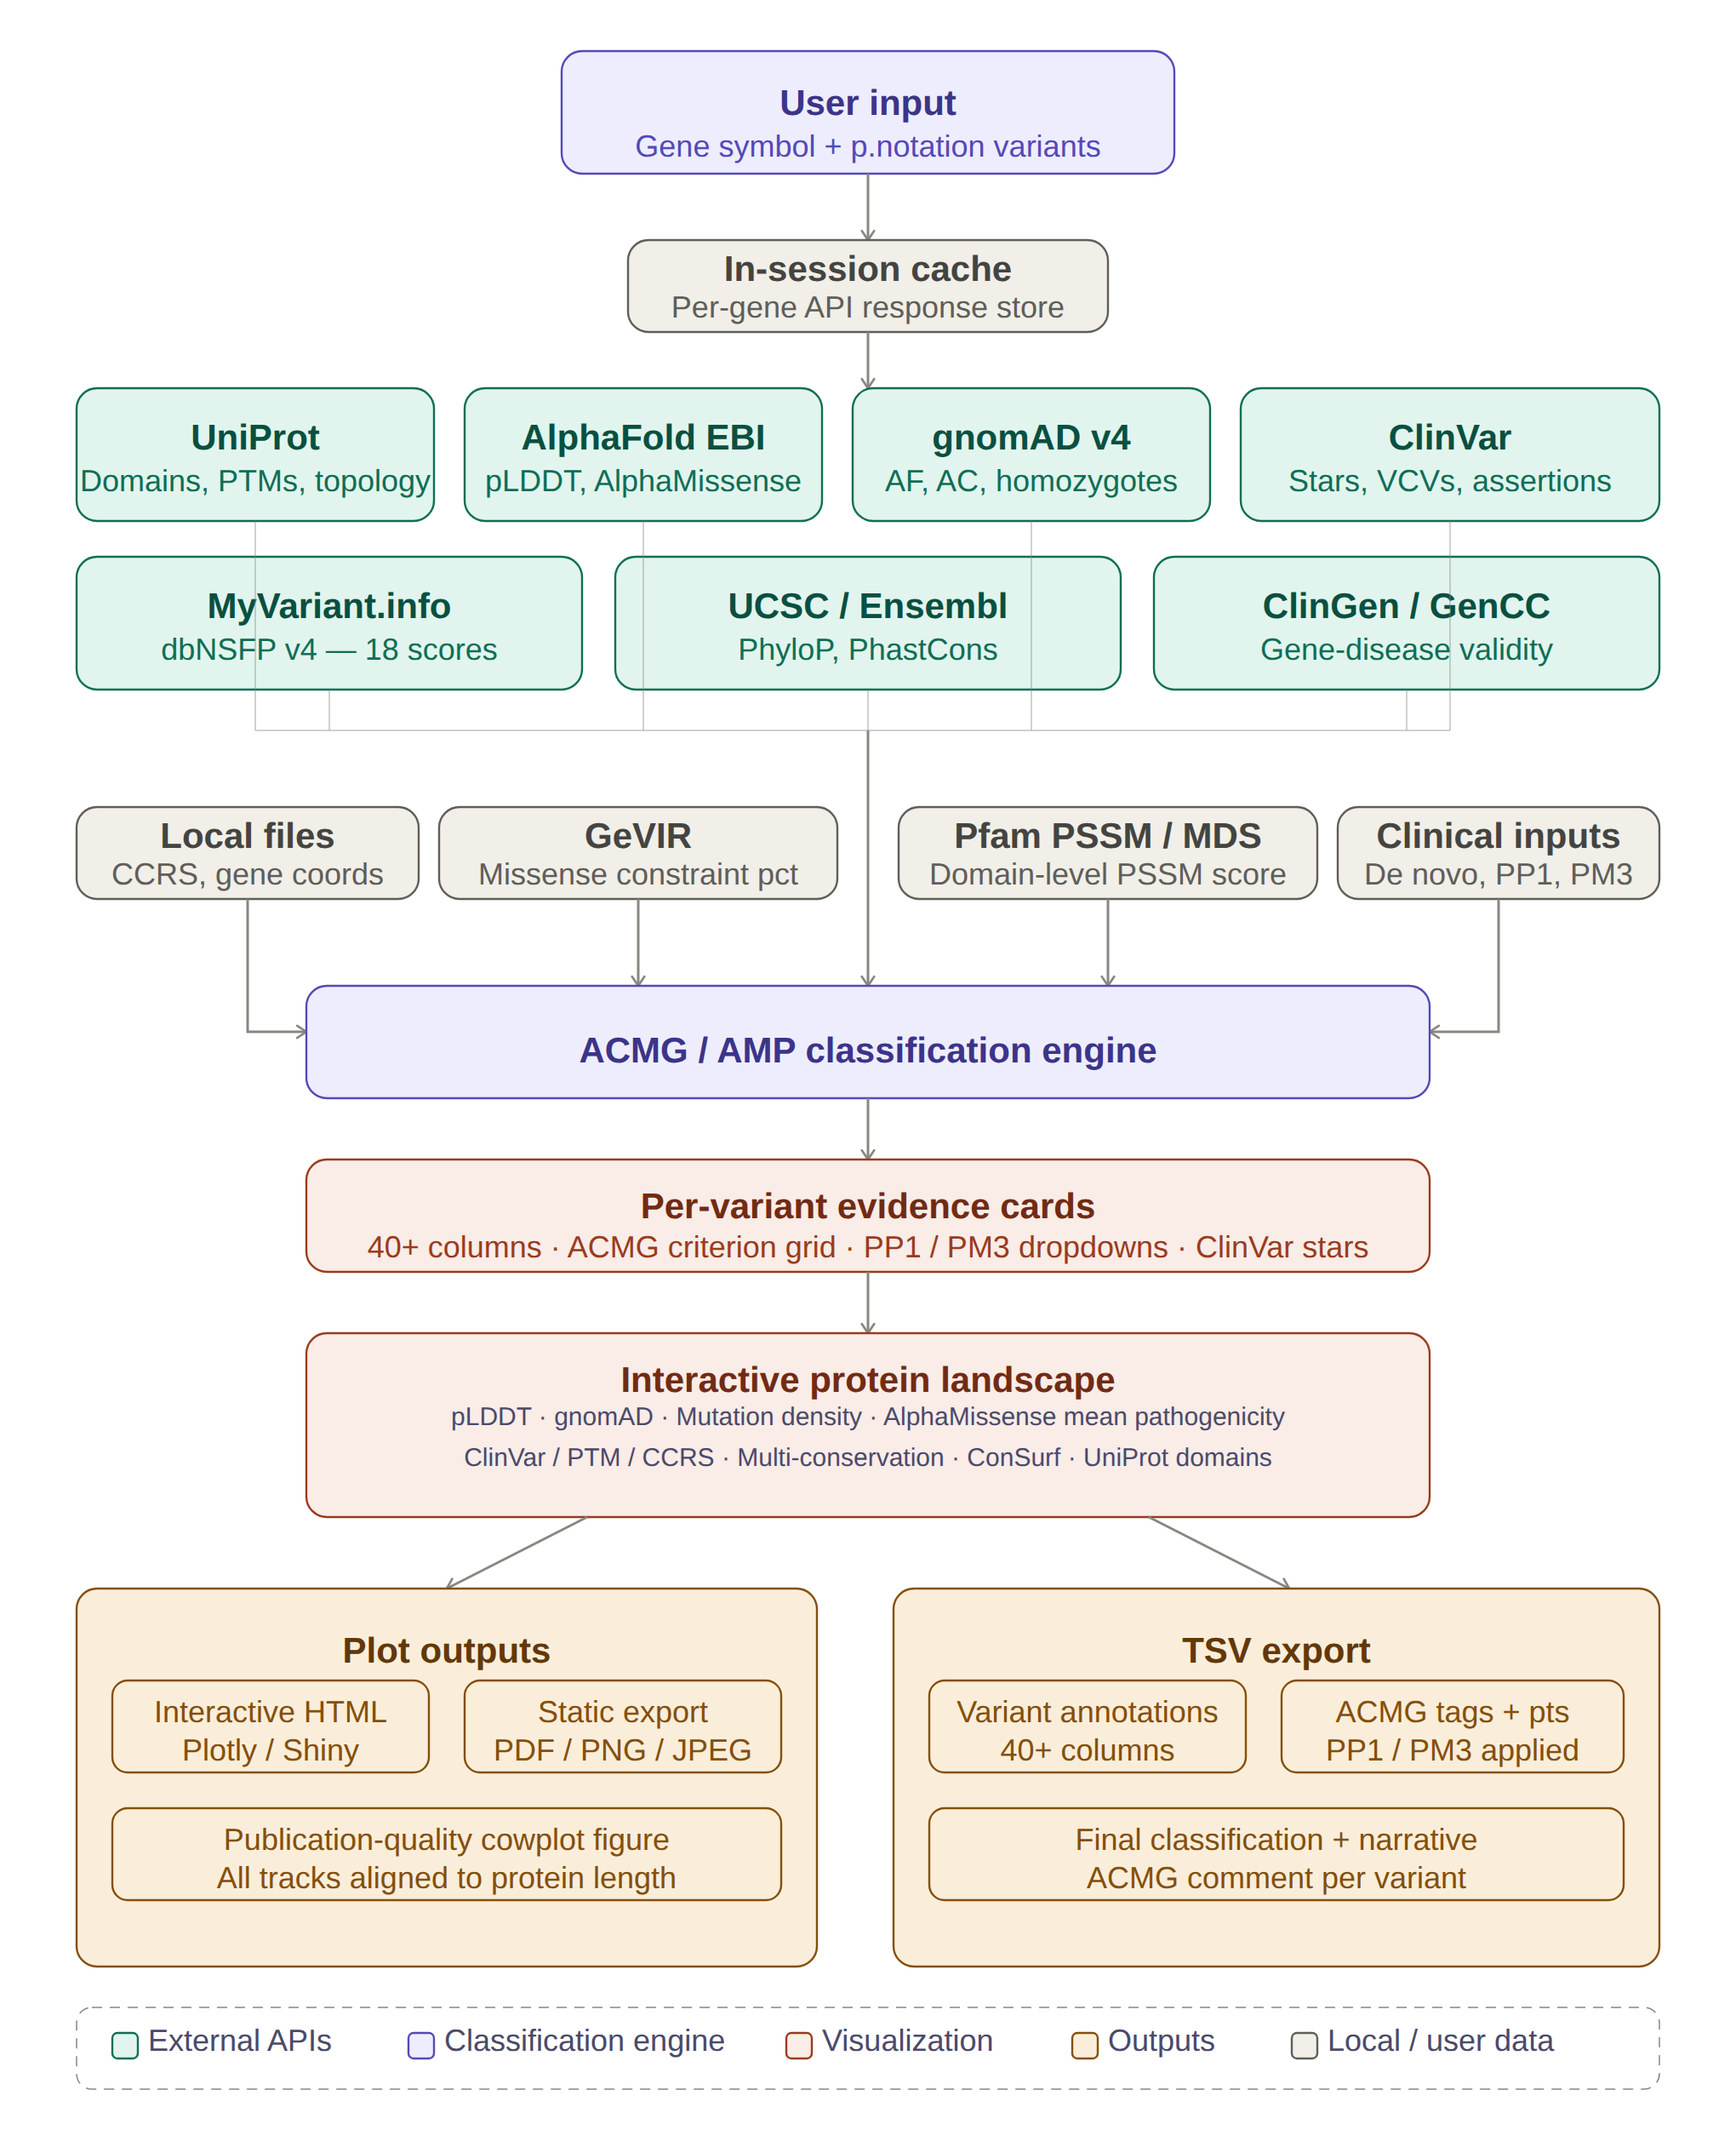
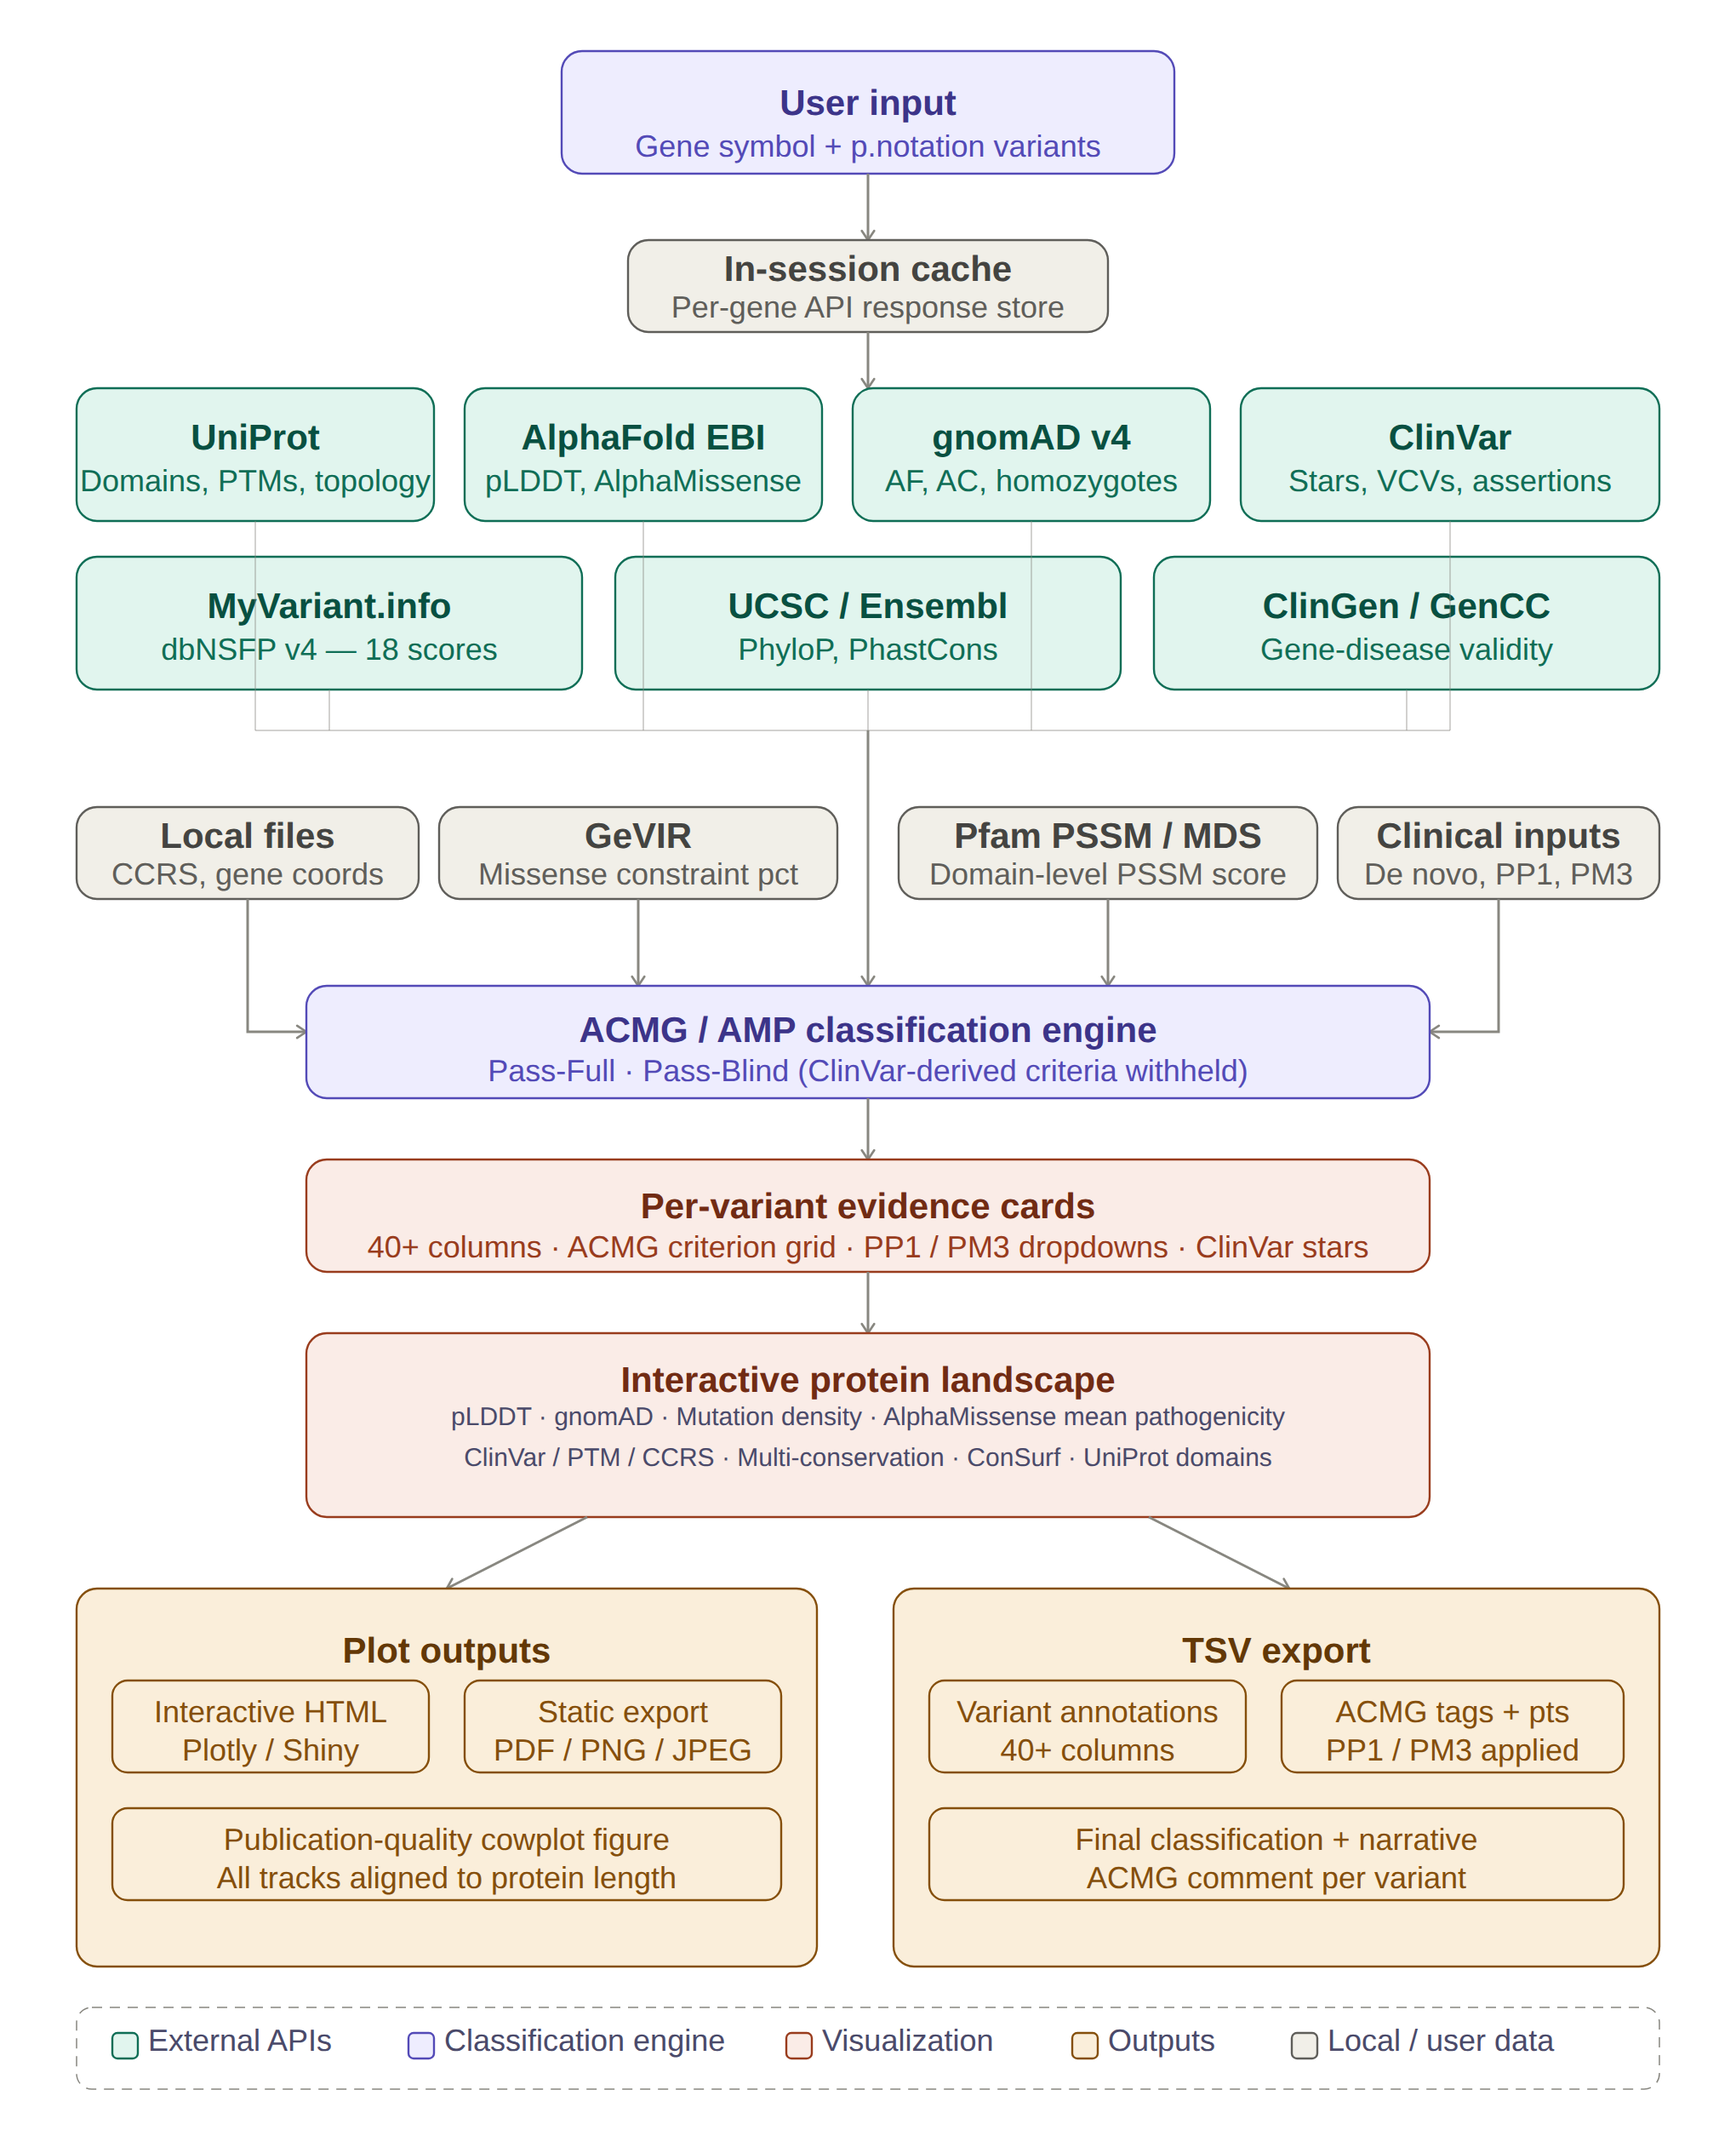
docs(readme): describe the dual-pass call and show it in the workflow figure
The README never mentioned Pass-Full and Pass-Blind. Add a feature bullet, note
the Final_* and Blind_* columns in the TSV description, and add the two passes
to the ACMG engine box of the workflow figure (re-rendered at 3x).

developed with the help of AI assistance

Changed region(s): [[0.3397, 0.4676, 0.7103, 0.53], [0.2779, 0.4988, 0.3088, 0.53]]

diff --git a/README.md b/README.md
@@ -16,7 +16,7 @@ VarViz addresses this by fetching **nine evidence streams** through live API cal
 
 ![VarViz workflow architecture](varviz_workflow.png)
 
-**Figure.** VarViz workflow architecture: the evidence streams, the ACMG/AMP classification engine, and the two output routes. The CASR validation results are in the Validation section below.
+**Figure.** VarViz workflow architecture: the evidence streams, the ACMG/AMP classification engine (which scores each variant with and without ClinVar-derived criteria), and the two output routes. The CASR validation results are in the Validation section below.
 
 ---
 
@@ -54,6 +54,7 @@ Current release: **v1.2.7**
 - **PM2** against a prevalence-derived maximum credible allele frequency (Whiffin et al., 2017)
 - **PS1 and PM5** strength scaled by ClinVar review star count: PS1 spans Supporting/Moderate/Strong, PM5 spans Supporting/Moderate; a 0-star submission is not weighted as a 3-star expert-panel review
 - **PP2/BP1** from ClinGen gene-disease validity or GeVIR percentile
+- **Two passes per variant**: Pass-Full uses all evidence. Pass-Blind scores the same evidence with the ClinVar-derived criteria withheld (PS1, PM5, and PM1 when it came from the ClinVar hotspot), so you can see how much of a call rests on a prior clinical assertion. The variant card shows both calls and lists the withheld tags, and a PM1_strong that blinding demotes to PM1 is marked as such, with the MDS score when MDS carried it. The TSV carries both (`Final_*` and `Blind_*`)
 - **Evidence-independence guards** prevent double-dipping: PP5 suppressed by PS1; conservation withheld from PP3 when used for PM1_strong; PM1 neighbourhood independent of PM2; and PP1+PP4 capped at +5.0 points combined, since both implicate the locus rather than the variant (ClinGen SVI; Biesecker et al., 2024)
 
 ### Gene-specific PP3 recalibration (optional)
@@ -73,7 +74,7 @@ Each variant card provides real-time dropdowns for:
 Classification and explanatory comment update immediately on any change.
 
 ### Reproducible exports
-- **TSV download**: all ACMG tags, evidence values, in silico scores, population frequencies, and analysis parameters; any classification can be exactly reproduced from the file alone
+- **TSV download**: all ACMG tags, both pass results (`Final_*` and `Blind_*`), evidence values, in silico scores, population frequencies, and analysis parameters; any classification can be exactly reproduced from the file alone
 - **gnomAD raw data TSV**: full AC/AN/AF and ancestry-specific frequencies for all variants in the queried gene
 - **Static figure**: publication-quality PDF/PNG/JPEG via cowplot with all tracks aligned
 
